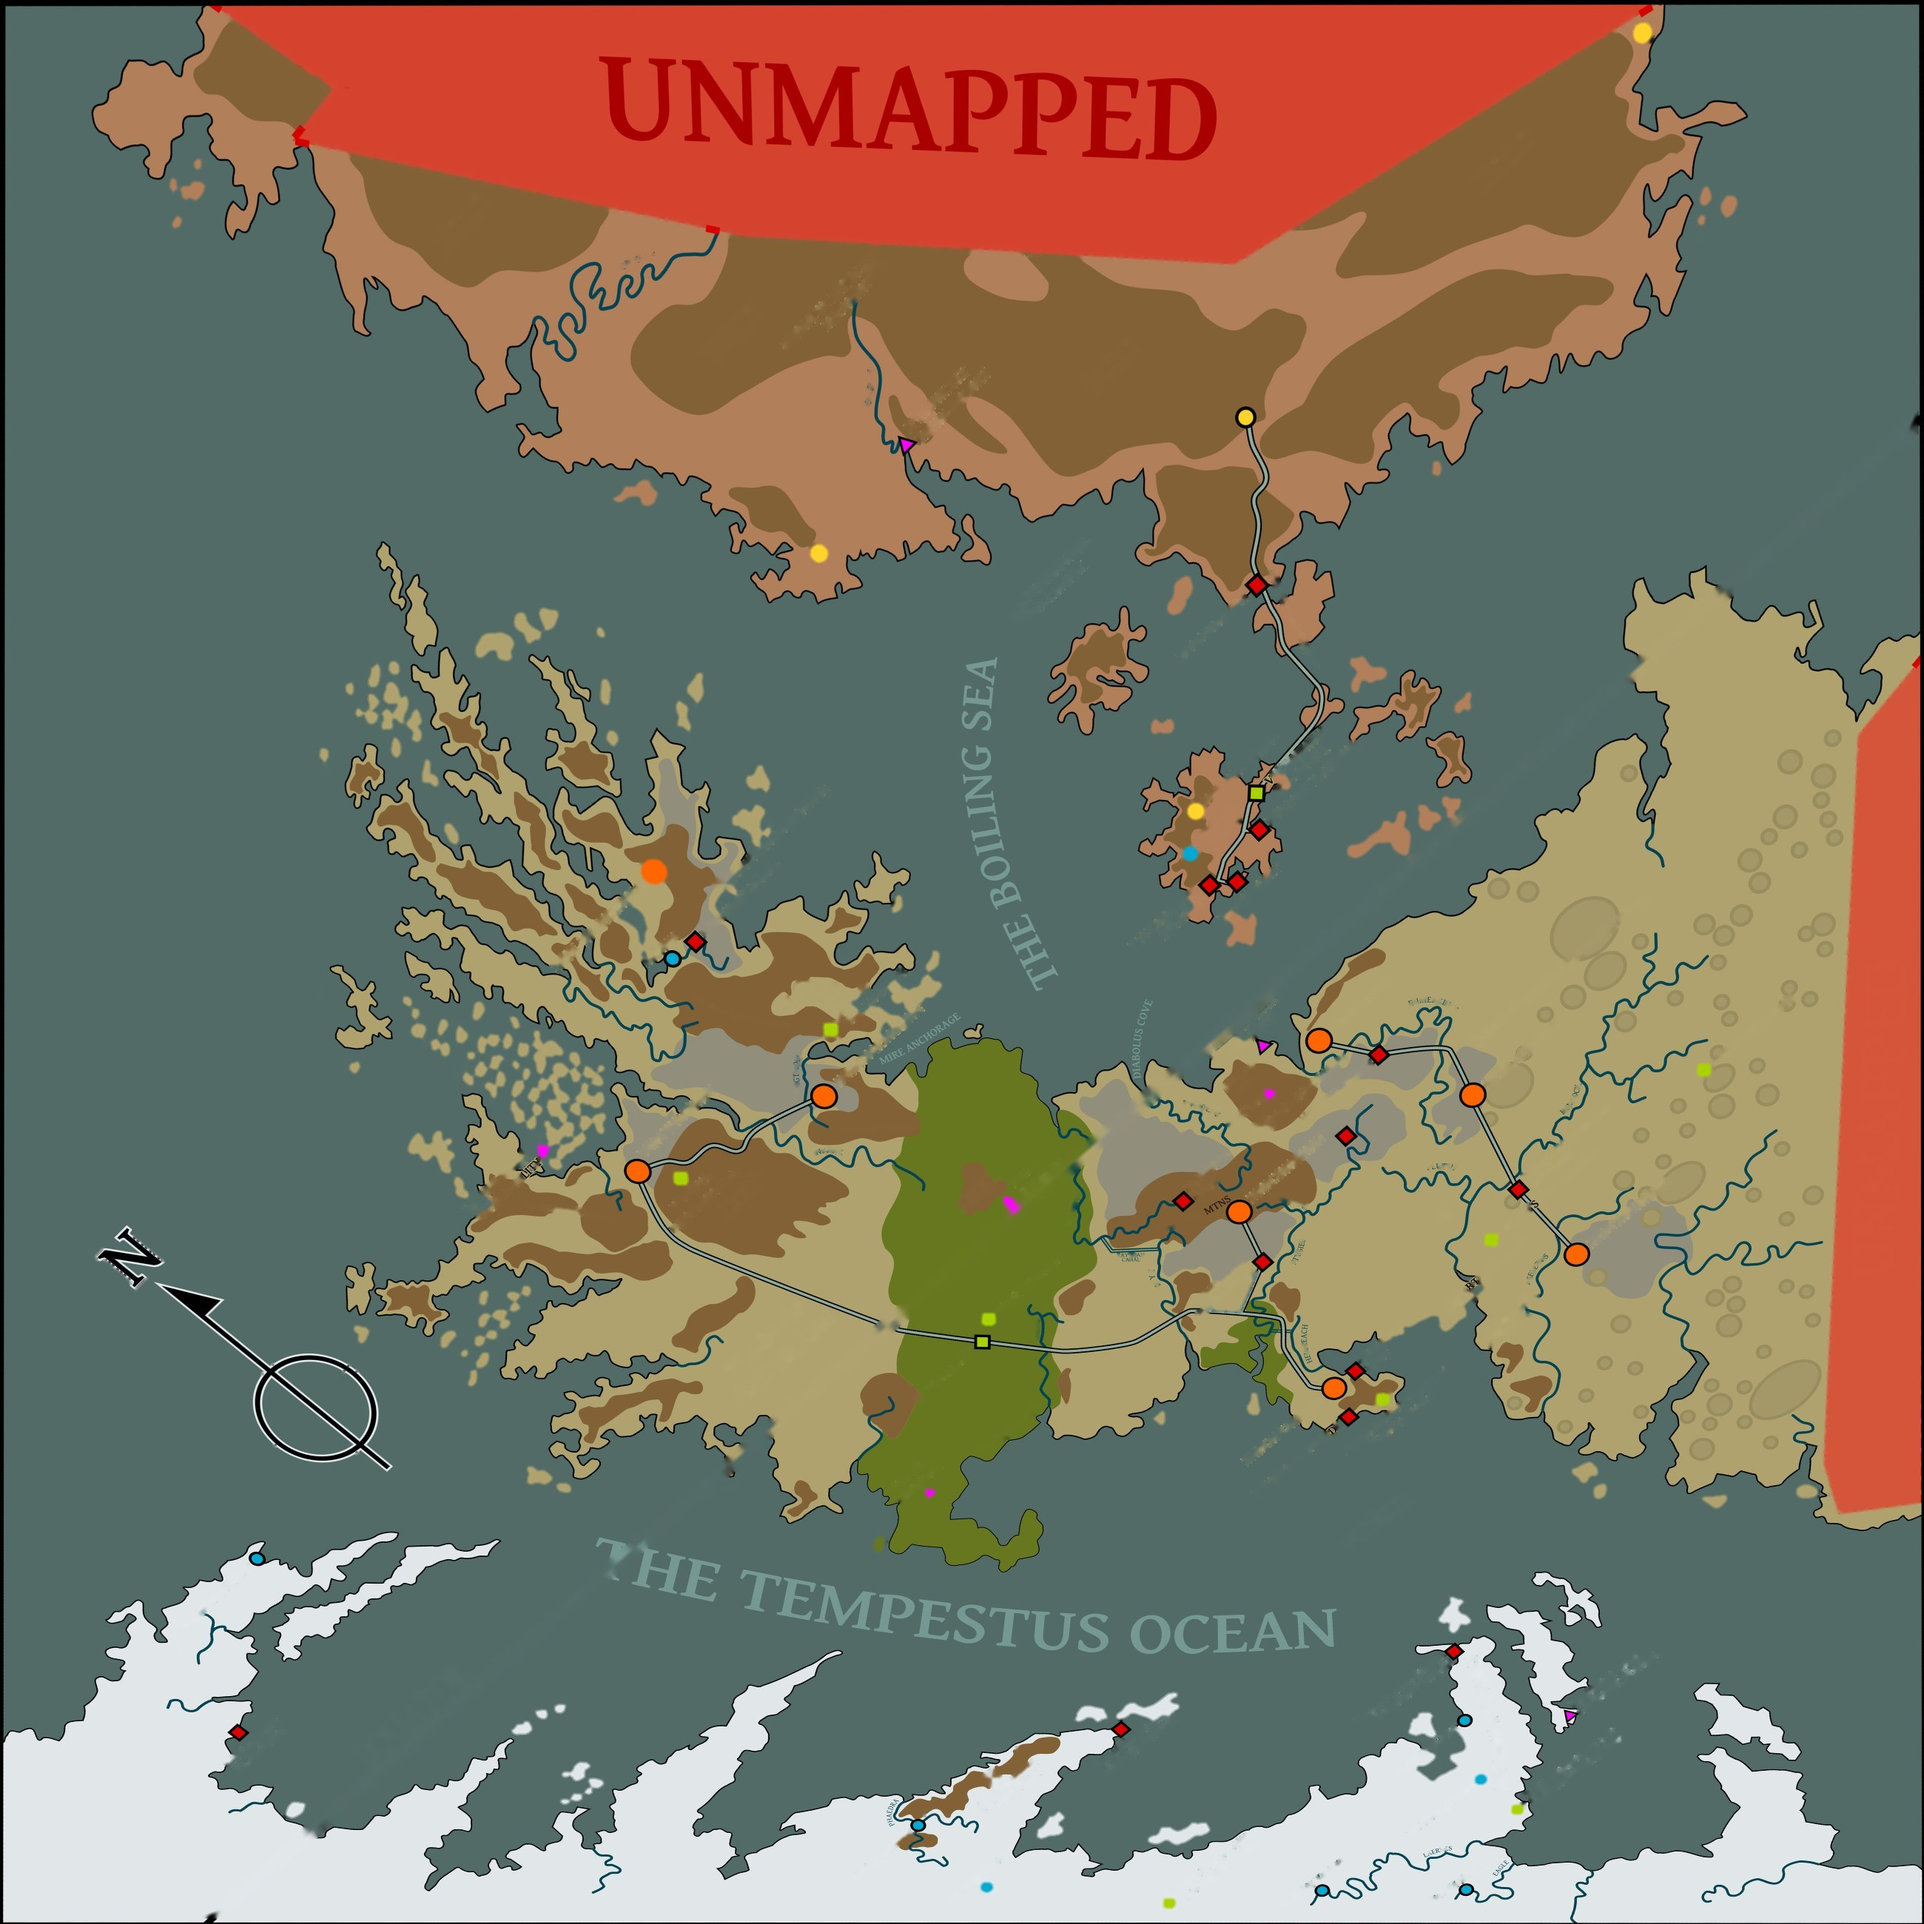
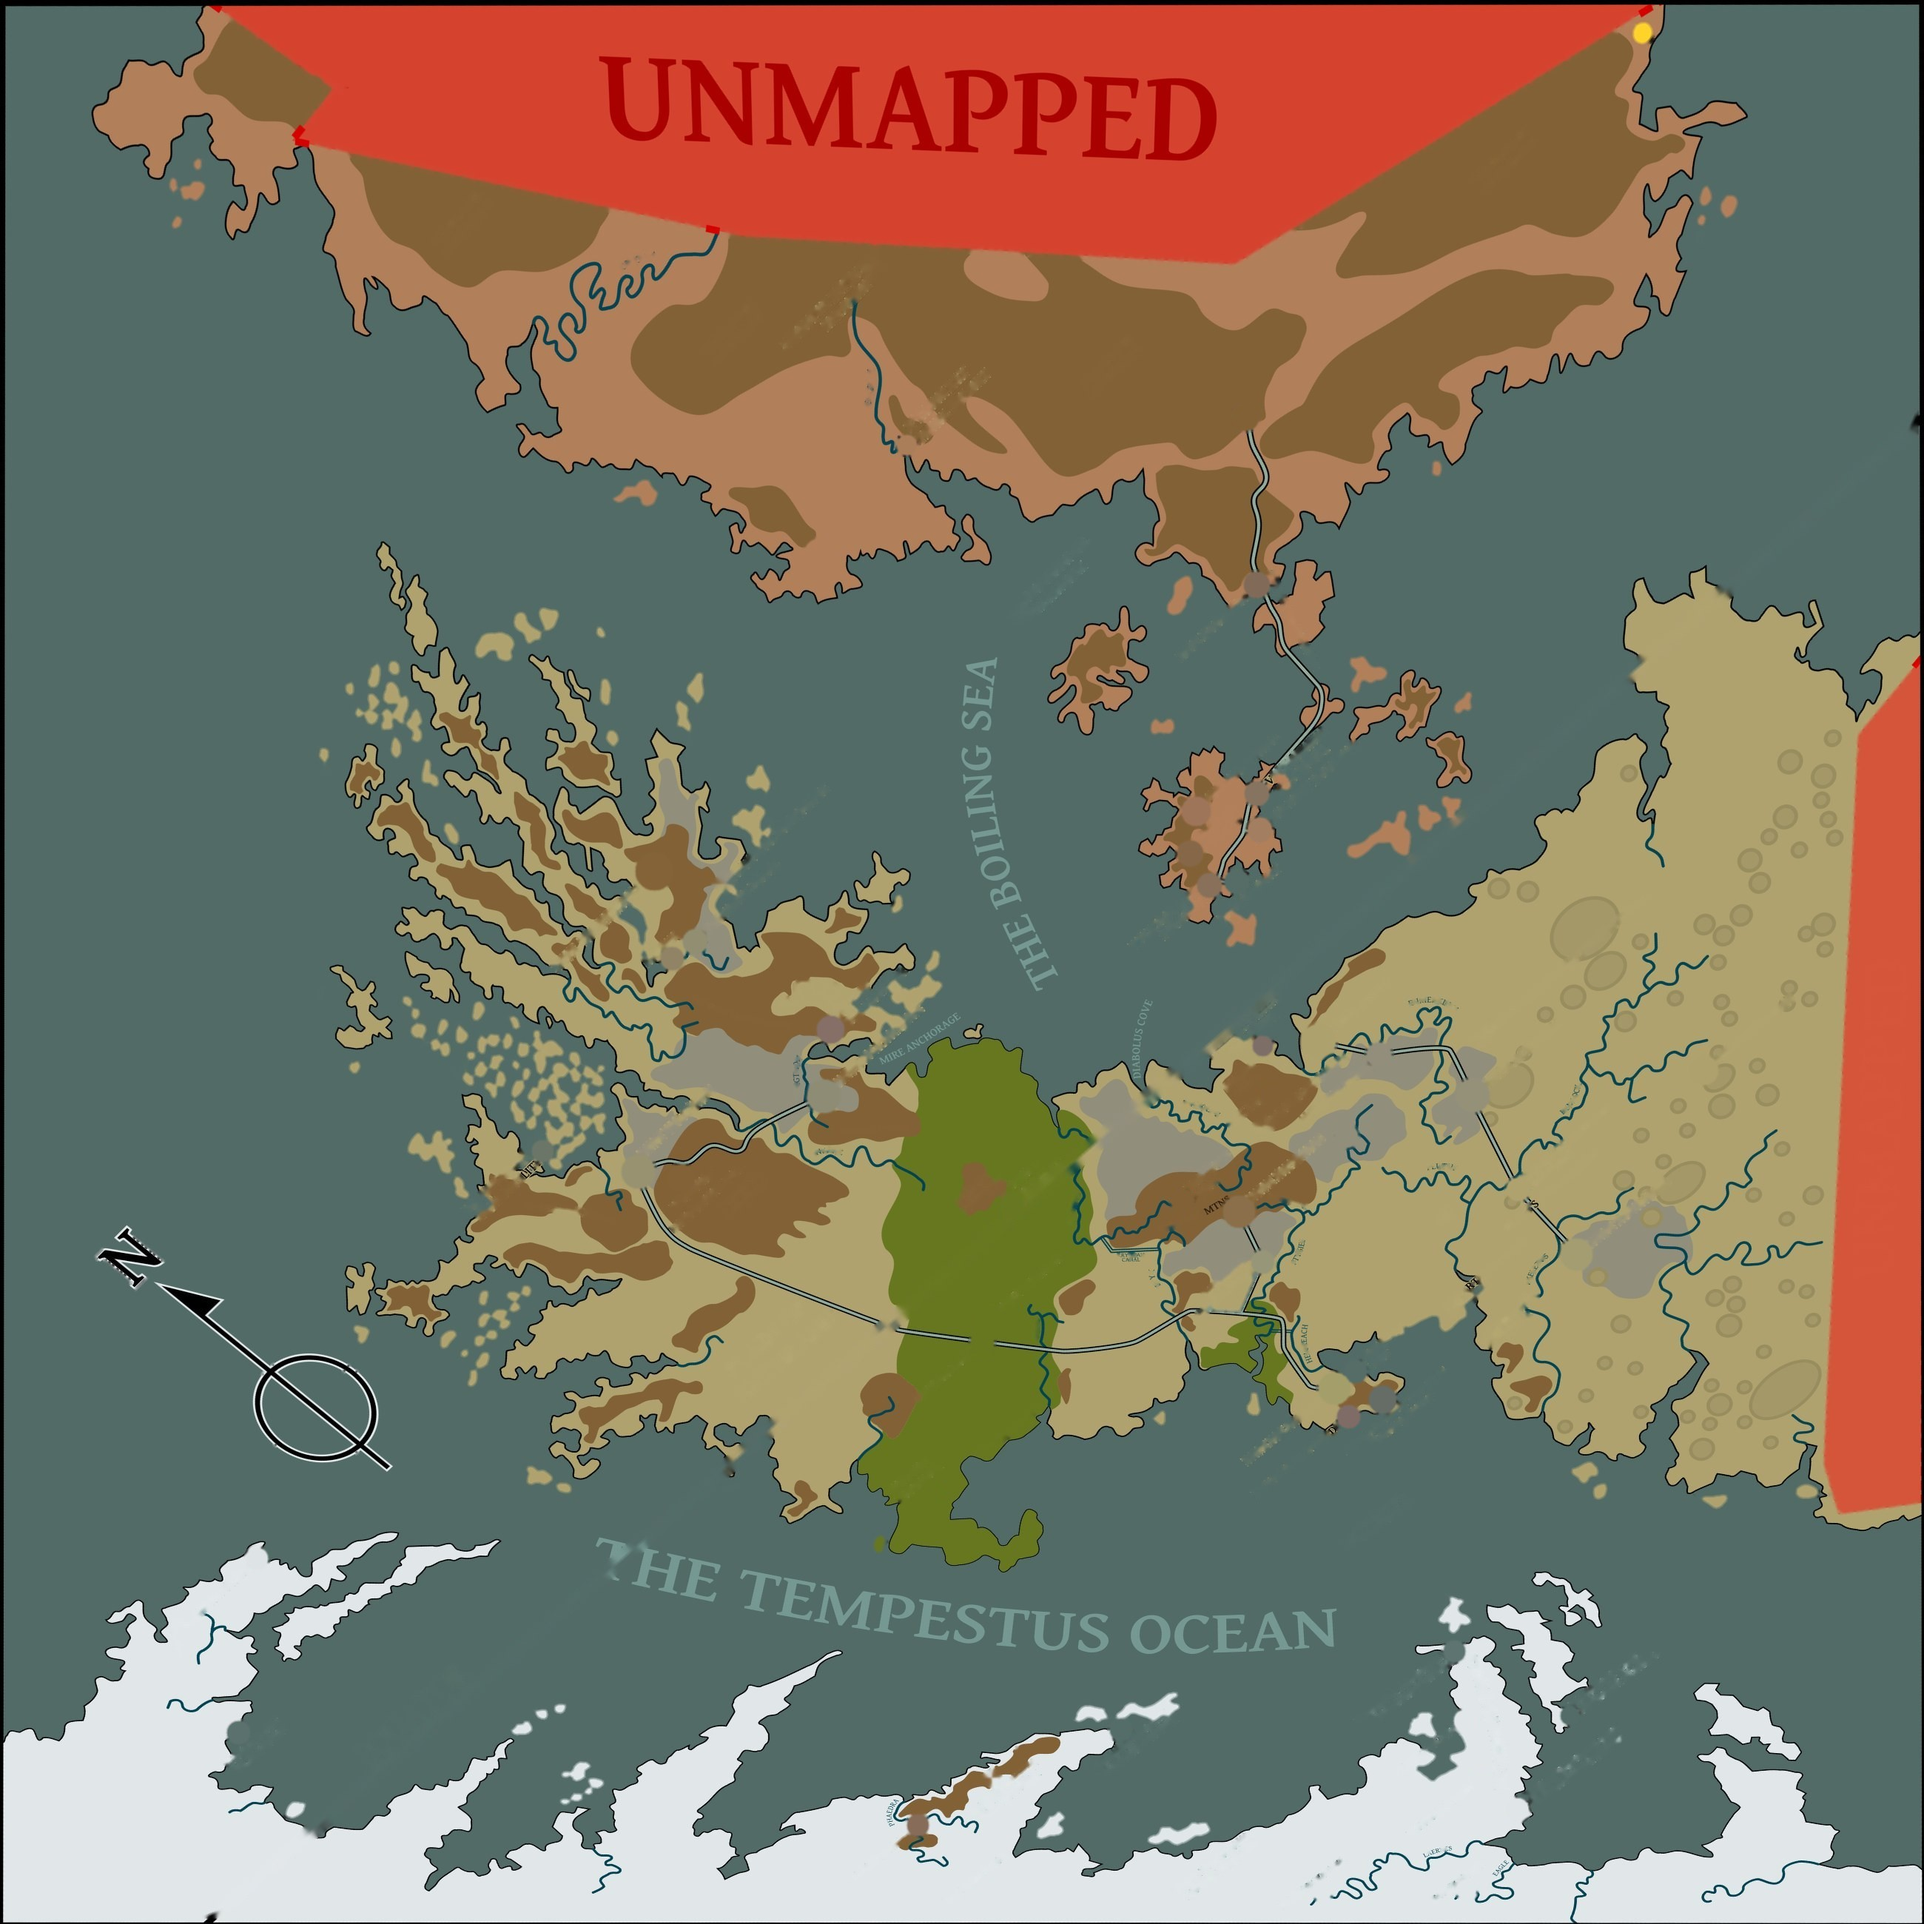
Armageddon wears our markers, not the poster's
The printed icons are gone from the art: found by the six inks the legend
prints them in — saturation alone merges an icon with the upland it sits on —
and filled with the median of a ring around each, ink excluded from the
sample, so the terrain closes over them without a smear.

Detecting them also found the sites we had missed, including a whole class:
no site of ours was a mine, so the legend's yellow had been invisible.
Eight more, each read off the labeled poster rather than invented —
Victorinius Spaceport, Nadala Gorge and Phoenix Island in the Boiling Sea,
Wolf Outpost, Cerbera Base and Angron's Monolith along the jungle road, and
Ghattana Bay and Yarrick Point on the southern ice, which needed links to
reach the mainland at all. Four icons the poster leaves unlabelled are
painted out but not named.

Necromunda's 24 sites have their lore, so every place in every setting now
has an entry: 1007 of them.

diff --git a/src/data/lore/warhammer-40k.js b/src/data/lore/warhammer-40k.js
@@ -315,4 +315,39 @@ export const WARHAMMER_40K_LORE = {
   'mccready-cape': 'A research station on McCready Cape, its original charter long since overtaken by whatever the Munitorum currently needs studied in a climate this hostile. McCready Cape keeps its findings closely held, and the isolation that makes it a good laboratory also makes it a poor place to have to defend on short notice.',
   'armageddon-annie': 'A gun emplacement on the Deadlands ice, paired at the pipeline’s far end with Emplacement SSB-1776 “Lethal Lucy” off the coast near Hive Helsreach, the two batteries between them covering the entire undersea line that supplies the hive with water. Armageddon Annie’s guns face open ice and open sky in equal measure, since either one is where the next threat to the pipeline is most likely to come from.',
   'eagle-river': 'A water-purification plant along the Eagle River where it cuts through the Deadlands ice toward the sea, its intakes kept clear of pack ice by crews who consider that the real fight, war or no war. Eagle River’s output is modest against the scale of what the hives need, but modest and reliable beats large and interrupted, which is the whole reason the plant still runs.',
+  // Armageddon — sites the cartograph marks but does not dwell on
+  'victorinius-spaceport': 'The spaceport serving the island cluster of the Boiling Sea, and the only landing field between the Fire Wastes and the hives of the south. Whatever is lifted off Armageddon that does not pass through Infernus passes through here.',
+  'nadala-gorge': 'A mine cut into the high ground above the Boiling Sea islands, worked for the ores the island forges eat through. It is small, remote and entirely necessary to the refineries below it.',
+  'phoenix-island': 'A water plant on an island in the Boiling Sea, distilling something drinkable out of a sea that is not. Every settlement on the islands is downstream of it, which is the whole of its strategic value.',
+  'wolf-outpost': 'A garrison post on the road across the equatorial jungle, watching the Mings crossings and the Plague Swamps beyond. It exists because the road has to be watched and nobody wants to be the one watching it.',
+  'cerbera-base': 'A military station beside Wolf Outpost on the same jungle road, close enough that the two are usually spoken of together. Between them they hold the only ground route through the green belt.',
+  'angrons-monolith': 'A stone raised in the jungle south of the Plague Swamps, named for the primarch of the World Eaters and avoided by anyone with sense. What it marks is not recorded on any chart the Administratum will admit to holding.',
+  'ghattana-bay': 'A water plant on the Deadlands ice, drawing from a bay that freezes over for most of the year. Armageddon’s southern stations live or die on places like it.',
+  'yarrick-point': 'An oil platform on the southern ice, named for the commissar in the way a great many things on this world are. It pumps through the winter dark because the hives do not stop needing what it pumps.',
+
+  // Necromunda — the hive world's surface
+  'hive-primus': 'The greatest hive on Necromunda and seat of House Helmawr, its spire climbing out of the ash into clean air while its underhive rots beneath. Every gang war, guild deal and noble feud on this world eventually points back to it.',
+  'hive-temenos': 'A hive of the Palatine Cluster, close enough to Primus to live in its shadow and far enough to resent it. Its manufactories feed the same tithe that Primus takes credit for.',
+  'hive-acropolis': 'An eastern hive of the Palatine Cluster, older than its neighbours and half-collapsed into its own foundations. What is still standing is worth holding; what is not is where the gangs live.',
+  'hive-trazior': 'A southern hive of the Palatine Cluster, known for the strength of its guild houses rather than its spire. Trade through Trazior sets prices across the cluster.',
+  'hive-secundus': 'A hive on the edge of the Xenos Quarantine Zone, which is a polite way of saying nobody is sure what is still alive out beyond its walls. Its garrison is the largest on Necromunda that is not in Primus.',
+  'hive-skull': 'A hive at the southern reach of the Great Equatorial Waste, isolated by ash storms for much of the year. Whoever holds it holds the only shelter for a very long way.',
+  'hive-rothgol': 'A hive on the Stormlands coast, battered by the weather that gives the region its name. Its people are reckoned hard even by Necromundan standards.',
+  'hive-vosroth': 'A hive above the Sulphurous Sea on the Chem Coasts, grown rich on chemical works that shorten the lives of everyone downwind. The tithe is met; the cost is not recorded.',
+  'hive-mortis': 'A hive in Helmawr’s Grasp, close enough to the seat of power to be watched and far enough to be dangerous. Its name is older than the current dynasty.',
+  'stormlands': 'The northern wastes where Necromunda’s weather is made, a country of ash squalls and lightning that strips paint from a rig in an afternoon. Nothing is held here for long.',
+  'bighole': 'A crater in the northern waste large enough to be its own landmark, worked by whoever can survive the trip. Nobody agrees on what made it.',
+  'the-spoil': 'A vast field of hive waste tipped out of the eastern settlements over centuries, picked over by scavengers for the metal in it. A fortune in salvage sits under a poison that kills slowly.',
+  'ruined-cluster': 'The remains of hives in the far northeast that failed, collapsed or were put down, left standing empty. Gangs and worse things shelter in the shells.',
+  'scum-lake': 'A lake of run-off west of the Palatine Cluster, fed by everything the hives flush out. Its shore is worth holding for water nobody else will fight for.',
+  'great-ash-road-west': 'The western stretch of the road that crosses the equatorial waste, marked by wrecks at intervals that say what the crossing costs. Convoys move in numbers or not at all.',
+  'great-ash-road-east': 'The eastern stretch of the great road, running towards the Chem Coasts. Control of a stretch of the Ash Road is control of trade between hives.',
+  'port-blackwater': 'A port on the Slag Sea, shipping what the western settlements dig up and taking in what the hives send out. Small, filthy and the only harbour for hundreds of miles.',
+  'great-equatorial-waste': 'The band of ash desert that splits the world, crossed only by the Ash Road and the desperate. It has no value except that everything must cross it.',
+  'xenos-quarantine-zone': 'A region interdicted by order of the Adeptus Terra, its borders still patrolled long after anyone remembers what was found. Entering is a capital matter, which does not stop anyone.',
+  'chem-coasts': 'The eastern shore along the Sulphurous Sea, worked for chemicals and lined with the plants that process them. The air is lethal and the profits are enormous.',
+  'cog-tooth-bridge': 'A bridge of hive-scale engineering in Helmawr’s Grasp, carrying the eastern road over broken ground. It has been fought over whenever the east has been fought over.',
+  'carrion-town': 'A settlement in Helmawr’s Grasp named with Necromundan directness, living off what the nearby hives discard. It answers to whichever gang held it last.',
+  'pit-city': 'A settlement built down into a working rather than up out of it, in the south of Helmawr’s Grasp. Its levels go deeper than its charts admit.',
+  'helmawrs-grasp': 'The southeastern territory held directly in the name of House Helmawr, and policed accordingly. Being within the Grasp is protection and a leash in the same measure.',
 };

diff --git a/src/data/maps/armageddon.js b/src/data/maps/armageddon.js
@@ -66,7 +66,19 @@ export default {
     { "id": "mccready-cape", "name": "McCready Cape Research Station", "kind": "site", "region": "Deadlands", "x": 2114, "y": 2318 },
     { "id": "armageddon-annie", "name": "Emplacement OC-1867 “Armageddon Annie”", "kind": "fortress", "region": "Deadlands", "x": 2045, "y": 2444 },
     { "id": "eagle-river", "name": "Eagle River", "kind": "plant", "region": "Deadlands", "x": 1975, "y": 2555 }
+,
+    { "id": "victorinius-spaceport", "name": "Victorinius Spaceport", "kind": "fortress", "region": "The Boiling Sea", "x": 1698, "y": 1071 },
+    { "id": "nadala-gorge", "name": "Nadala Gorge", "kind": "mine", "region": "The Boiling Sea", "x": 1616, "y": 1096 },
+    { "id": "phoenix-island", "name": "Phoenix Island", "kind": "plant", "region": "The Boiling Sea", "x": 1608, "y": 1153 },
+    { "id": "wolf-outpost", "name": "Wolf Outpost", "kind": "fortress", "region": "Armageddon Prime", "x": 1336, "y": 1782 },
+    { "id": "cerbera-base", "name": "Cerbera Base", "kind": "fortress", "region": "Armageddon Prime", "x": 1310, "y": 1826 },
+    { "id": "angrons-monolith", "name": "Angron’s Monolith", "kind": "site", "region": "Armageddon Prime", "x": 1256, "y": 2017 },
+    { "id": "ghattana-bay", "name": "Ghattana Bay", "kind": "plant", "region": "Deadlands", "x": 347, "y": 2106 },
+    { "id": "yarrick-point", "name": "Yarrick Point Oil Platform", "kind": "forge", "region": "Deadlands", "x": 322, "y": 2341 }  ],
+  "extraLinks": [
+    ["ghattana-bay", "yarrick-point"],
+    ["ghattana-bay", "nemesis-island"],
+    ["ghattana-bay", "volcanus-ridge"]
   ],
-  "extraLinks": [],
   "blockedLinks": []
 };

diff --git a/src/data/maps/fantasy-world.js b/src/data/maps/fantasy-world.js
@@ -365,8 +365,8 @@ export default {
       "id": "fw-black-blood-pass",
       "name": "Black Blood Pass",
       "region": "Kislev",
-      "x": 1300,
-      "y": 262
+      "x": 1322,
+      "y": 290
     },
     {
       "id": "fw-goromadny-mountains",
